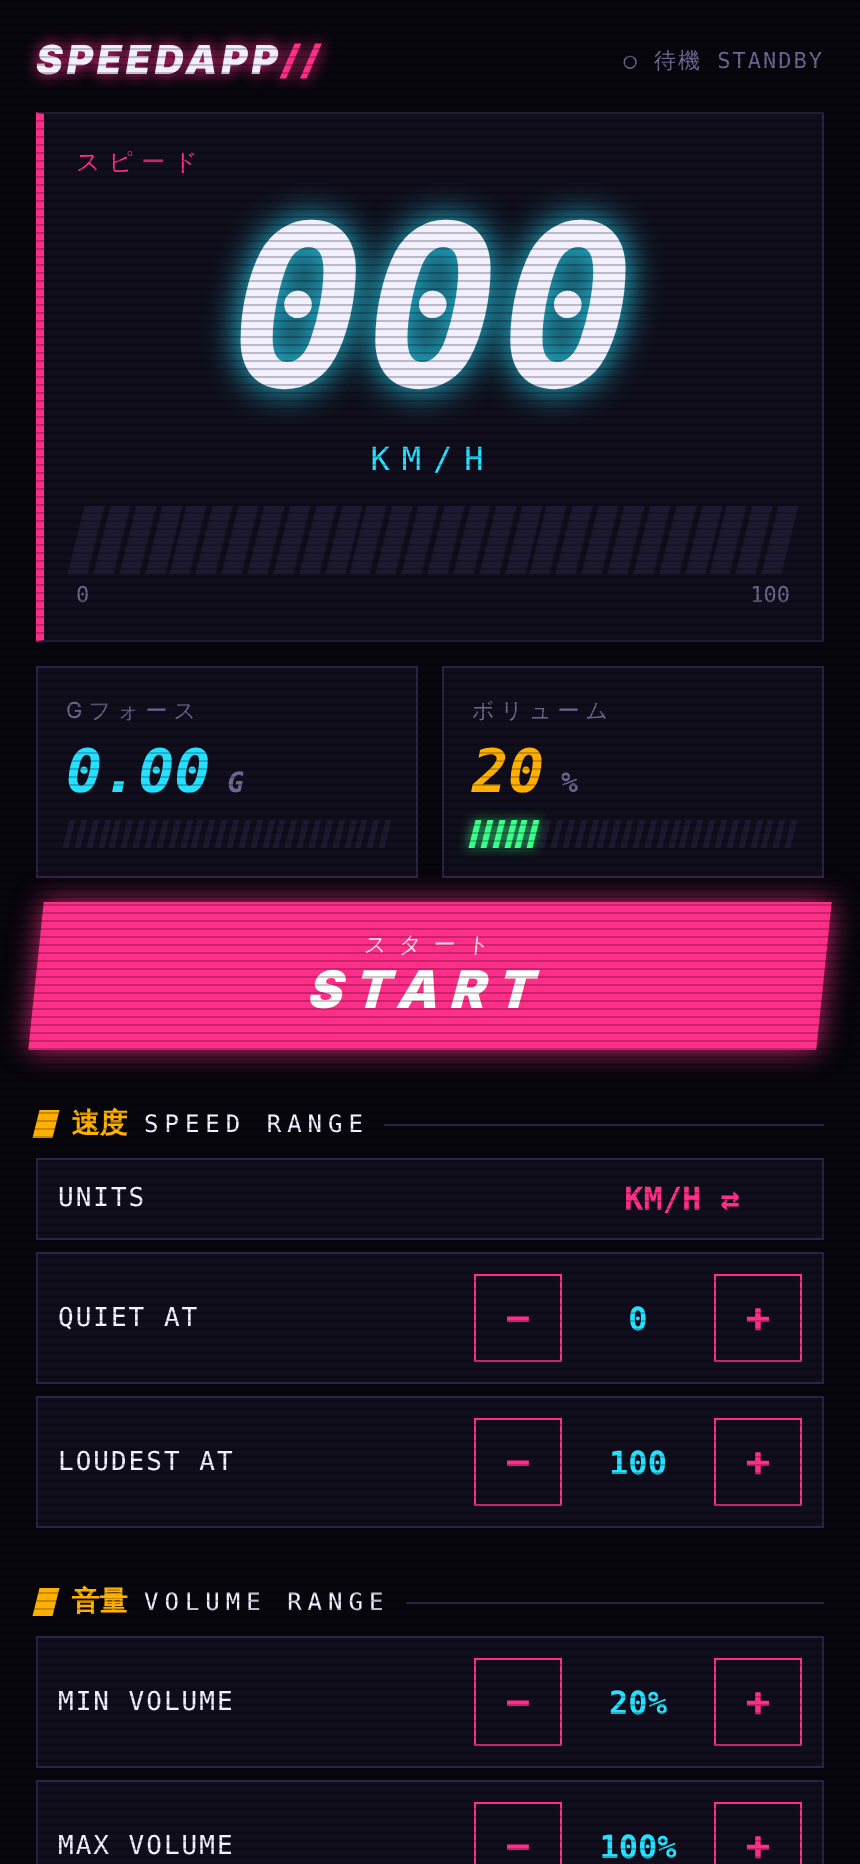
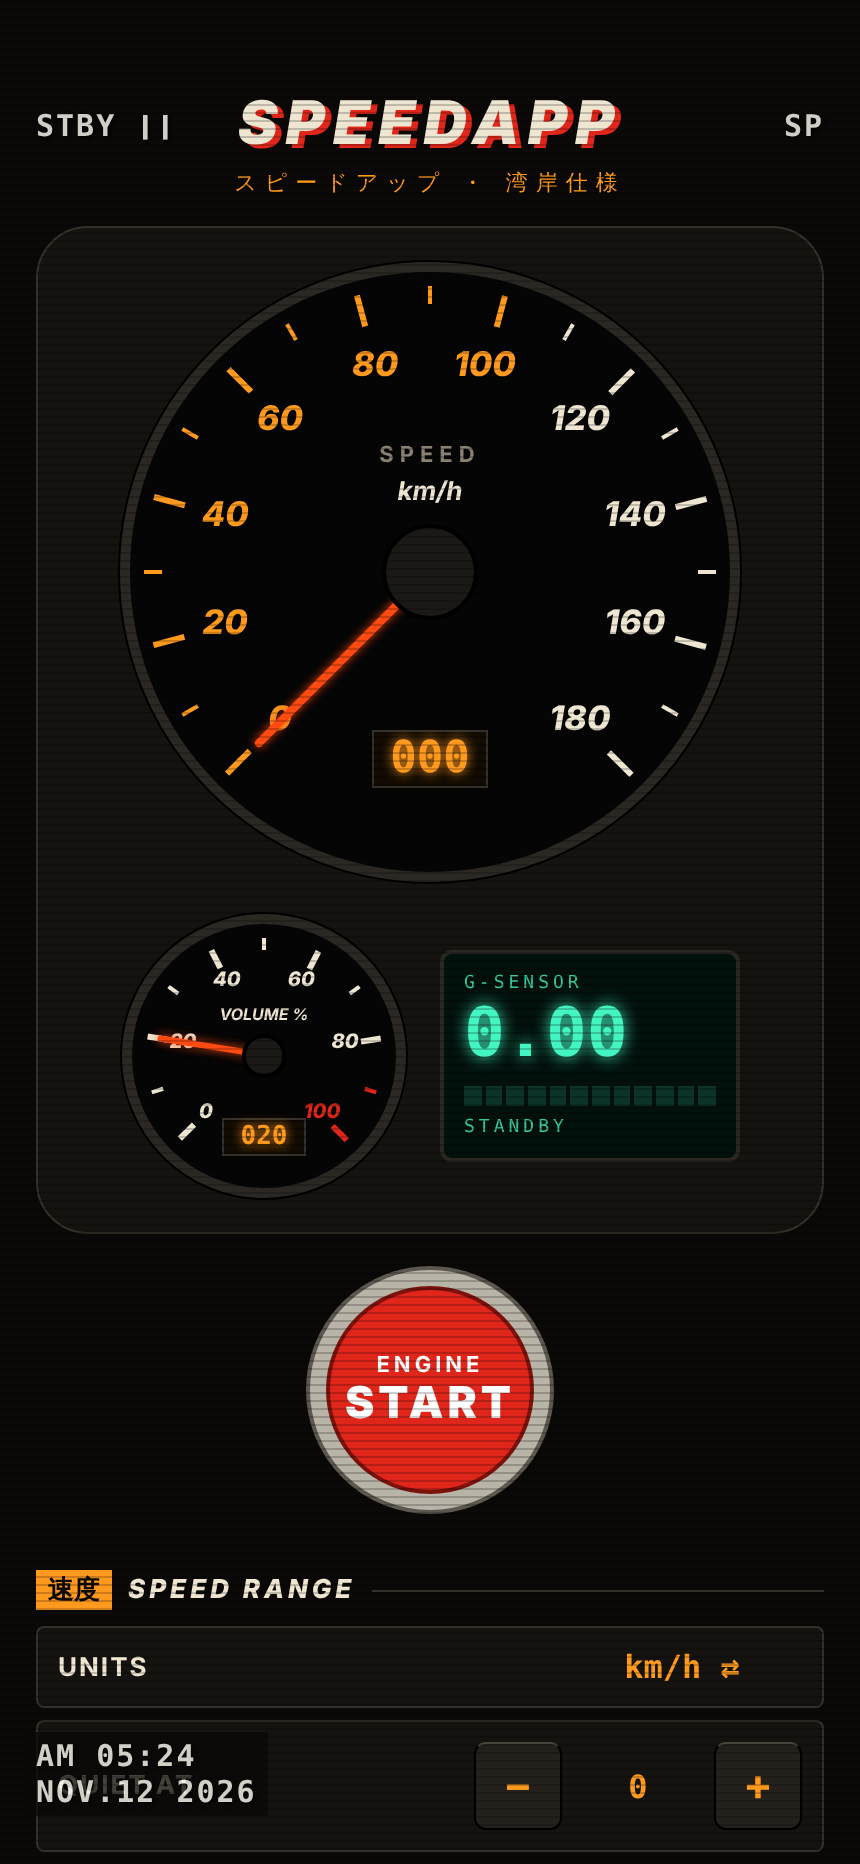
Redo UI as a 90s Japanese sports car gauge cluster on VHS
Analog 180 km/h speedo with amber speed-range band and orange needle,
volume gauge, green VFD g-sensor, red engine start button, camcorder
OSD timestamp and scanlines.

Claude-Session: https://claude.ai/code/session_01G4tNq8g86niq4jSNcdiu1p

diff --git a/App.js b/App.js
@@ -5,48 +5,84 @@ import { useKeepAwake } from 'expo-keep-awake';
 import { DEFAULT_SETTINGS, clamp, convertSpeed } from './src/volume';
 import { start, state, stop } from './src/engine';
 
-// Palette: midnight expressway, sodium lamps and neon signage.
+// Palette: late-90s Japanese sports car cabin at night, taped on VHS.
+// Black gauge faces, warm white print, amber illumination, orange needles, green VFD.
 const C = {
-  bg: '#07060d',
-  panel: '#100e1c',
-  line: '#2a2444',
-  dim: '#6d668f',
-  text: '#f2efff',
-  pink: '#ff2e88',
-  cyan: '#27e0ff',
-  amber: '#ffb000',
-  green: '#3dff8b',
-  red: '#ff3b30',
+  bg: '#0a0907',       // cabin black, slightly warm
+  panel: '#15130f',    // dash plastic
+  face: '#050505',     // gauge face
+  bezel: '#2b2823',
+  line: '#35312a',
+  dim: '#8a8172',
+  print: '#efe6d2',    // warm white gauge print
+  amber: '#ff9a1f',    // illumination
+  needle: '#ff4a12',   // orange-red needle
+  red: '#e0261b',      // redline / start button
+  vfd: '#43f5c0',      // vacuum fluorescent display green
+  tape: '#f4f1e8',     // camcorder OSD white
 };
 const MONO = Platform.select({ ios: 'Menlo', default: 'monospace' });
-const UNIT_LABEL = { kmh: 'KM/H', mph: 'MPH' };
-const SEGMENTS = 28;
+const UNIT_LABEL = { kmh: 'km/h', mph: 'MPH' };
+const SWEEP = 270; // degrees, like a real speedo
+const MONTHS = ['JAN', 'FEB', 'MAR', 'APR', 'MAY', 'JUN', 'JUL', 'AUG', 'SEP', 'OCT', 'NOV', 'DEC'];
 
-/** Rev-light style bar: green -> amber -> red, lit up to `value` (0..1). */
-function SegmentBar({ value, tall }) {
-  const lit = Math.round(clamp(value, 0, 1) * SEGMENTS);
+/** Analog gauge drawn with plain views: ticks, numbers, amber band, redline and a needle. */
+function Gauge({ size, value, max, major, minor, title, unit, band, redFrom, readout }) {
+  const angle = (v) => -SWEEP / 2 + SWEEP * clamp(v / max, 0, 1);
+  const c = size / 2;
+  const big = size > 200;
+  const ticks = [];
+  for (let v = 0; v <= max + 0.001; v += minor) ticks.push(Math.round(v * 100) / 100);
+  const isMajor = (v) => Math.abs(v / major - Math.round(v / major)) < 0.001;
+  const tickColor = (v) => (redFrom != null && v >= redFrom ? C.red
+    : band && v >= band[0] && v <= band[1] ? C.amber : C.print);
+  const labelR = c - (big ? 44 : 25);
+
   return (
-    <View style={[s.segRow, tall && { height: 34 }]}>
-      {Array.from({ length: SEGMENTS }, (_, i) => {
-        const color = i >= SEGMENTS * 0.85 ? C.red : i >= SEGMENTS * 0.6 ? C.amber : C.green;
-        const on = i < lit;
-        return (
-          <View
-            key={i}
-            style={[s.seg, { backgroundColor: on ? color : C.line, opacity: on ? 1 : 0.5 },
-              on && { shadowColor: color, shadowOpacity: 0.9, shadowRadius: 6, shadowOffset: { width: 0, height: 0 } }]}
-          />
-        );
-      })}
+    <View style={[s.bezel, { width: size + 12, height: size + 12, borderRadius: (size + 12) / 2 }]}>
+      <View style={[s.face, { width: size, height: size, borderRadius: c }]}>
+        {ticks.map((v) => (
+          <View key={v} style={[StyleSheet.absoluteFill, { transform: [{ rotate: `${angle(v)}deg` }], paddingTop: 7 }]}>
+            <View style={{ alignSelf: 'center', width: isMajor(v) ? 3 : 1.5, height: isMajor(v) ? (big ? 16 : 10) : (big ? 9 : 6), backgroundColor: tickColor(v) }} />
+          </View>
+        ))}
+        {ticks.filter(isMajor).map((v) => {
+          const r = (angle(v) * Math.PI) / 180;
+          return (
+            <Text key={`n${v}`} style={[s.gaugeNum, { fontSize: big ? 17 : 10, color: tickColor(v), left: c + labelR * Math.sin(r) - 22, top: c - labelR * Math.cos(r) - (big ? 11 : 7) }]}>
+              {v}
+            </Text>
+          );
+        })}
+        {big && <Text style={[s.gaugeTitle, { top: c * 0.56, fontSize: 11 }]}>{title}</Text>}
+        <Text style={[s.gaugeUnit, { top: c * (big ? 0.68 : 0.6), fontSize: big ? 13 : 8 }]}>{big ? unit : `${title} ${unit}`}</Text>
+        <View style={[s.lcd, { bottom: size * (big ? 0.14 : 0.12) }]}>
+          <Text style={[s.lcdText, { fontSize: big ? 22 : 13 }]}>{readout}</Text>
+        </View>
+        <View style={[StyleSheet.absoluteFill, { transform: [{ rotate: `${angle(value)}deg` }] }]}>
+          <View style={[s.needle, { marginTop: size * 0.09, height: size * 0.41, width: big ? 4 : 3 }]} />
+        </View>
+        <View style={[s.hub, { width: size * 0.16, height: size * 0.16, borderRadius: size * 0.08, left: c - size * 0.08, top: c - size * 0.08 }]} />
+      </View>
     </View>
   );
 }
 
-/** Faint CRT scanlines over the whole screen. */
-function Scanlines() {
+/** Camcorder on-screen display + scanlines: the whole thing is "taped". */
+function TapeOverlay({ running }) {
+  const [now, setNow] = useState(new Date());
+  useEffect(() => { const id = setInterval(() => setNow(new Date()), 1000); return () => clearInterval(id); }, []);
+  const h = now.getHours();
+  const pad = (n) => String(n).padStart(2, '0');
+  const blink = now.getSeconds() % 2 === 0;
   return (
     <View pointerEvents="none" style={StyleSheet.absoluteFill}>
       {Array.from({ length: 240 }, (_, i) => <View key={i} style={s.scan} />)}
+      <Text style={[s.osd, { top: 54, left: 18 }]}>{running ? `REC ${blink ? '●' : ' '}` : 'STBY ❙❙'}</Text>
+      <Text style={[s.osd, { top: 54, right: 18 }]}>SP</Text>
+      <Text style={[s.osd, s.osdStamp]}>
+        {`${h < 12 ? 'AM' : 'PM'} ${pad(h % 12 || 12)}:${pad(now.getMinutes())}\n${MONTHS[now.getMonth()]}.${pad(now.getDate())} ${now.getFullYear()}`}
+      </Text>
     </View>
   );
 }
@@ -54,7 +90,6 @@ function Scanlines() {
 function Heading({ jp, en }) {
   return (
     <View style={s.heading}>
-      <View style={s.headingMark} />
       <Text style={s.headingJp}>{jp}</Text>
       <Text style={s.headingEn}>{en}</Text>
       <View style={s.headingRule} />
@@ -102,7 +137,7 @@ export default function App() {
   const set = (k) => (v) => setSettings((p) => ({ ...p, [k]: v }));
   const unit = settings.unit;
   const shownSpeed = convertSpeed(speed, unit);
-  const speedFrac = (shownSpeed - settings.minSpeed) / Math.max(1, settings.maxSpeed - settings.minSpeed);
+  const kmh = unit === 'kmh';
   const pct = (v) => `${Math.round(v * 100)}%`;
 
   return (
@@ -110,45 +145,47 @@ export default function App() {
       <StatusBar style="light" />
       <ScrollView contentContainerStyle={s.wrap}>
         <View style={s.topBar}>
-          <Text style={s.brand}>SPEEDAPP<Text style={{ color: C.pink }}>//</Text></Text>
-          <Text style={[s.status, running && s.statusOn]}>{running ? '● 走行中 RUNNING' : '○ 待機 STANDBY'}</Text>
+          <Text style={s.brand}>SPEEDAPP</Text>
+          <Text style={s.brandJp}>スピードアップ ・ 湾岸仕様</Text>
         </View>
 
-        <View style={s.dash}>
-          <Text style={s.dashTag}>スピード</Text>
-          <Text style={s.speed}>{String(Math.round(shownSpeed)).padStart(3, '0')}</Text>
-          <Text style={s.unit}>{UNIT_LABEL[unit]}</Text>
-          <SegmentBar value={speedFrac} tall />
-          <View style={s.scale}>
-            <Text style={s.scaleText}>{settings.minSpeed}</Text>
-            <Text style={s.scaleText}>{settings.maxSpeed}</Text>
-          </View>
-        </View>
-
-        <View style={s.cards}>
-          <View style={s.card}>
-            <Text style={s.cardLabel}>Gフォース</Text>
-            <Text style={[s.cardValue, { color: C.cyan }]}>{g.toFixed(2)}<Text style={s.cardUnit}> G</Text></Text>
-            <SegmentBar value={g / settings.gFull} />
-          </View>
-          <View style={s.card}>
-            <Text style={s.cardLabel}>ボリューム</Text>
-            <Text style={[s.cardValue, { color: C.amber }]}>{Math.round(volume * 100)}<Text style={s.cardUnit}> %</Text></Text>
-            <SegmentBar value={volume} />
+        <View style={s.cluster}>
+          <Gauge
+            size={300} value={shownSpeed} max={kmh ? 180 : 120} major={20} minor={kmh ? 10 : 5}
+            title="SPEED" unit={UNIT_LABEL[unit]} band={[settings.minSpeed, settings.maxSpeed]}
+            readout={String(Math.round(shownSpeed)).padStart(3, '0')}
+          />
+          <View style={s.subRow}>
+            <Gauge
+              size={132} value={volume * 100} max={100} major={20} minor={10}
+              title="VOLUME" unit="%" redFrom={90} readout={String(Math.round(volume * 100)).padStart(3, '0')}
+            />
+            <View style={s.vfd}>
+              <Text style={s.vfdLabel}>G-SENSOR</Text>
+              <Text style={s.vfdValue}>{g.toFixed(2)}</Text>
+              <View style={s.vfdBar}>
+                {Array.from({ length: 12 }, (_, i) => (
+                  <View key={i} style={[s.vfdSeg, { opacity: i < Math.round(clamp(g / settings.gFull, 0, 1) * 12) ? 1 : 0.15 }]} />
+                ))}
+              </View>
+              <Text style={s.vfdLabel}>{running ? 'ACTIVE' : 'STANDBY'}</Text>
+            </View>
           </View>
         </View>
 
         {error && <Text style={s.error}>! {error}</Text>}
 
-        <Pressable style={[s.big, running && s.bigStop]} onPress={toggle}>
-          <Text style={s.bigJp}>{running ? 'ストップ' : 'スタート'}</Text>
-          <Text style={s.bigText}>{running ? 'STOP' : 'START'}</Text>
+        <Pressable style={s.startRing} onPress={toggle}>
+          <View style={[s.startBtn, running && s.startBtnOn]}>
+            <Text style={s.startSmall}>ENGINE</Text>
+            <Text style={s.startText}>{running ? 'STOP' : 'START'}</Text>
+          </View>
         </Pressable>
 
         <Heading jp="速度" en="SPEED RANGE" />
-        <Pressable style={s.row} onPress={() => set('unit')(unit === 'kmh' ? 'mph' : 'kmh')}>
+        <Pressable style={s.row} onPress={() => set('unit')(kmh ? 'mph' : 'kmh')}>
           <Text style={s.rowLabel}>UNITS</Text>
-          <Text style={[s.rowValue, { color: C.pink, minWidth: 120 }]}>{UNIT_LABEL[unit]} ⇄</Text>
+          <Text style={[s.rowValue, { minWidth: 120 }]}>{UNIT_LABEL[unit]} ⇄</Text>
         </Pressable>
         <Stepper label="QUIET AT" value={settings.minSpeed} step={5} min={0} max={settings.maxSpeed - 5} onChange={set('minSpeed')} />
         <Stepper label="LOUDEST AT" value={settings.maxSpeed} step={5} min={settings.minSpeed + 5} max={300} onChange={set('maxSpeed')} />
@@ -162,61 +199,61 @@ export default function App() {
         <Stepper label="FULL BOOST AT" value={settings.gFull} step={0.1} min={0.1} max={2} format={(v) => `${v.toFixed(1)} G`} onChange={set('gFull')} />
 
         <Text style={s.hint}>
-          Volume rises with speed between the two limits. Hard braking, acceleration or cornering adds a boost on top.
+          Amber marks on the speedo show your speed range. Volume rises across it; hard braking, acceleration or cornering adds a boost.
         </Text>
-        <Text style={s.footer}>© SPEEDAPP TUNING — 首都高 MIDNIGHT SPEC</Text>
       </ScrollView>
-      <Scanlines />
+      <TapeOverlay running={running} />
     </SafeAreaView>
   );
 }
 
-const glow = (color, r = 12) => ({ textShadowColor: color, textShadowRadius: r, textShadowOffset: { width: 0, height: 0 } });
-
 const s = StyleSheet.create({
   safe: { flex: 1, backgroundColor: C.bg },
-  wrap: { padding: 18, paddingBottom: 60 },
-  scan: { height: 1, marginBottom: 3, backgroundColor: '#000', opacity: 0.22 },
+  wrap: { padding: 18, paddingTop: 44, paddingBottom: 110 },
+  scan: { height: 1, marginBottom: 3, backgroundColor: '#000', opacity: 0.2 },
+  osd: { position: 'absolute', color: C.tape, fontFamily: MONO, fontSize: 15, fontWeight: '700', letterSpacing: 1, opacity: 0.85, textShadowColor: '#000', textShadowRadius: 2, textShadowOffset: { width: 1, height: 1 } },
 
-  topBar: { flexDirection: 'row', justifyContent: 'space-between', alignItems: 'center', marginBottom: 14 },
-  brand: { color: C.text, fontSize: 20, fontWeight: '900', fontStyle: 'italic', letterSpacing: 2, ...glow(C.pink, 8) },
-  status: { color: C.dim, fontFamily: MONO, fontSize: 11, letterSpacing: 1 },
-  statusOn: { color: C.green, ...glow(C.green, 6) },
+  osdStamp: { bottom: 24, left: 12, backgroundColor: 'rgba(10,9,7,0.88)', paddingHorizontal: 6, paddingVertical: 3 },
 
-  dash: { backgroundColor: C.panel, borderWidth: 1, borderColor: C.line, borderLeftWidth: 4, borderLeftColor: C.pink, padding: 16, marginBottom: 12 },
-  dashTag: { color: C.pink, fontSize: 12, letterSpacing: 4 },
-  speed: { color: C.text, fontFamily: MONO, fontSize: 112, fontWeight: '800', fontStyle: 'italic', textAlign: 'center', fontVariant: ['tabular-nums'], ...glow(C.cyan, 18) },
-  unit: { color: C.cyan, fontFamily: MONO, fontSize: 16, letterSpacing: 6, textAlign: 'center', marginBottom: 14 },
-  scale: { flexDirection: 'row', justifyContent: 'space-between', marginTop: 4 },
-  scaleText: { color: C.dim, fontFamily: MONO, fontSize: 11 },
+  topBar: { alignItems: 'center', marginBottom: 14 },
+  brand: { color: C.print, fontSize: 30, fontWeight: '900', fontStyle: 'italic', letterSpacing: 4, textShadowColor: C.red, textShadowRadius: 0, textShadowOffset: { width: 3, height: 2 } },
+  brandJp: { color: C.amber, fontSize: 11, letterSpacing: 4, marginTop: 4 },
 
-  segRow: { flexDirection: 'row', gap: 3, height: 14 },
-  seg: { flex: 1, transform: [{ skewX: '-14deg' }] },
+  cluster: { backgroundColor: C.panel, borderRadius: 26, borderWidth: 1, borderColor: C.line, paddingVertical: 16, alignItems: 'center', marginBottom: 16 },
+  subRow: { flexDirection: 'row', alignItems: 'center', gap: 16, marginTop: 14 },
+  bezel: { backgroundColor: C.bezel, alignItems: 'center', justifyContent: 'center', borderWidth: 1, borderColor: '#000' },
+  face: { backgroundColor: C.face, overflow: 'hidden' },
+  gaugeNum: { position: 'absolute', width: 44, textAlign: 'center', fontWeight: '800', fontStyle: 'italic' },
+  gaugeTitle: { position: 'absolute', alignSelf: 'center', color: C.dim, letterSpacing: 3, fontWeight: '700' },
+  gaugeUnit: { position: 'absolute', alignSelf: 'center', color: C.print, fontStyle: 'italic', fontWeight: '700' },
+  lcd: { position: 'absolute', alignSelf: 'center', backgroundColor: '#120b03', borderWidth: 1, borderColor: C.line, paddingHorizontal: 8, paddingVertical: 1 },
+  lcdText: { color: C.amber, fontFamily: MONO, fontWeight: '700', fontVariant: ['tabular-nums'], textShadowColor: C.amber, textShadowRadius: 6, textShadowOffset: { width: 0, height: 0 } },
+  needle: { alignSelf: 'center', backgroundColor: C.needle, borderRadius: 2, shadowColor: C.needle, shadowOpacity: 0.9, shadowRadius: 5, shadowOffset: { width: 0, height: 0 } },
+  hub: { position: 'absolute', backgroundColor: '#1b1916', borderWidth: 2, borderColor: '#000' },
 
-  cards: { flexDirection: 'row', gap: 12, marginBottom: 12 },
-  card: { flex: 1, backgroundColor: C.panel, borderWidth: 1, borderColor: C.line, padding: 14 },
-  cardLabel: { color: C.dim, fontSize: 11, letterSpacing: 3 },
-  cardValue: { fontFamily: MONO, fontSize: 30, fontWeight: '800', fontStyle: 'italic', marginVertical: 6, fontVariant: ['tabular-nums'] },
-  cardUnit: { fontSize: 14, color: C.dim },
+  vfd: { width: 150, backgroundColor: '#03110d', borderWidth: 2, borderColor: C.bezel, borderRadius: 6, padding: 10 },
+  vfdLabel: { color: C.vfd, fontFamily: MONO, fontSize: 9, letterSpacing: 2, opacity: 0.8 },
+  vfdValue: { color: C.vfd, fontFamily: MONO, fontSize: 34, fontWeight: '700', fontVariant: ['tabular-nums'], textShadowColor: C.vfd, textShadowRadius: 8, textShadowOffset: { width: 0, height: 0 } },
+  vfdBar: { flexDirection: 'row', gap: 2, height: 10, marginVertical: 6 },
+  vfdSeg: { flex: 1, backgroundColor: C.vfd },
 
-  big: { backgroundColor: C.pink, paddingVertical: 14, alignItems: 'center', marginBottom: 6, transform: [{ skewX: '-6deg' }], shadowColor: C.pink, shadowOpacity: 0.8, shadowRadius: 14, shadowOffset: { width: 0, height: 0 } },
-  bigStop: { backgroundColor: C.red, shadowColor: C.red },
-  bigJp: { color: '#fff', fontSize: 11, letterSpacing: 6, opacity: 0.85 },
-  bigText: { color: '#fff', fontSize: 26, fontWeight: '900', fontStyle: 'italic', letterSpacing: 6 },
+  startRing: { alignSelf: 'center', width: 124, height: 124, borderRadius: 62, backgroundColor: '#b9b4a8', alignItems: 'center', justifyContent: 'center', marginBottom: 6, borderWidth: 2, borderColor: '#5c584f' },
+  startBtn: { width: 104, height: 104, borderRadius: 52, backgroundColor: C.red, alignItems: 'center', justifyContent: 'center', borderWidth: 2, borderColor: '#7d120c' },
+  startBtnOn: { backgroundColor: '#8f140d', shadowColor: C.red, shadowOpacity: 1, shadowRadius: 16, shadowOffset: { width: 0, height: 0 } },
+  startSmall: { color: '#fff', fontSize: 11, fontWeight: '700', letterSpacing: 2 },
+  startText: { color: '#fff', fontSize: 22, fontWeight: '900', letterSpacing: 2 },
 
   heading: { flexDirection: 'row', alignItems: 'center', gap: 8, marginTop: 22, marginBottom: 8 },
-  headingMark: { width: 10, height: 14, backgroundColor: C.amber, transform: [{ skewX: '-14deg' }] },
-  headingJp: { color: C.amber, fontSize: 14, fontWeight: '700' },
-  headingEn: { color: C.text, fontFamily: MONO, fontSize: 12, letterSpacing: 3 },
+  headingJp: { color: C.bg, backgroundColor: C.amber, fontSize: 13, fontWeight: '800', paddingHorizontal: 6, paddingVertical: 1 },
+  headingEn: { color: C.print, fontSize: 13, fontWeight: '800', fontStyle: 'italic', letterSpacing: 2 },
   headingRule: { flex: 1, height: 1, backgroundColor: C.line },
 
-  row: { flexDirection: 'row', alignItems: 'center', backgroundColor: C.panel, borderWidth: 1, borderColor: C.line, padding: 10, marginBottom: 6 },
-  rowLabel: { color: C.text, fontFamily: MONO, fontSize: 13, letterSpacing: 1, flex: 1 },
-  rowValue: { color: C.cyan, fontFamily: MONO, fontSize: 16, fontWeight: '700', minWidth: 76, textAlign: 'center', fontVariant: ['tabular-nums'] },
-  btn: { width: 44, height: 44, borderWidth: 1, borderColor: C.pink, alignItems: 'center', justifyContent: 'center' },
-  btnText: { color: C.pink, fontSize: 22, fontWeight: '700' },
+  row: { flexDirection: 'row', alignItems: 'center', backgroundColor: C.panel, borderWidth: 1, borderColor: C.line, borderRadius: 4, padding: 10, marginBottom: 6 },
+  rowLabel: { color: C.print, fontSize: 13, fontWeight: '700', letterSpacing: 1, flex: 1 },
+  rowValue: { color: C.amber, fontFamily: MONO, fontSize: 16, fontWeight: '700', minWidth: 76, textAlign: 'center', fontVariant: ['tabular-nums'] },
+  btn: { width: 44, height: 44, borderRadius: 6, backgroundColor: '#24211c', borderWidth: 1, borderColor: '#000', borderTopColor: '#4a453c', alignItems: 'center', justifyContent: 'center' },
+  btnText: { color: C.amber, fontSize: 22, fontWeight: '700' },
 
   hint: { color: C.dim, fontSize: 12, marginTop: 12, lineHeight: 18 },
-  footer: { color: C.line, fontFamily: MONO, fontSize: 10, letterSpacing: 2, textAlign: 'center', marginTop: 24 },
-  error: { color: C.red, fontFamily: MONO, marginBottom: 10 },
+  error: { color: C.red, fontFamily: MONO, marginBottom: 10, textAlign: 'center' },
 });
